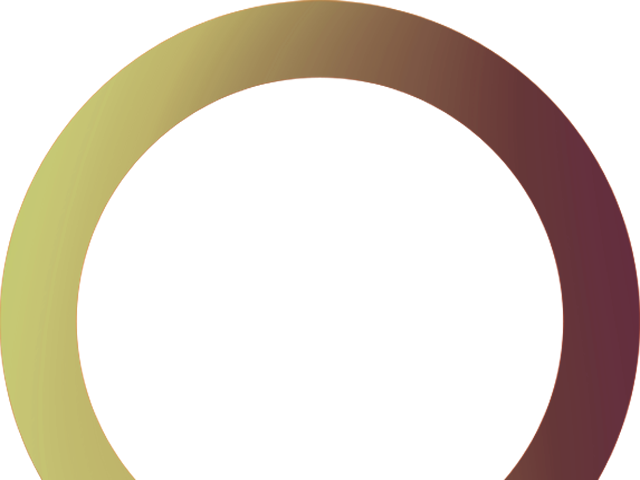
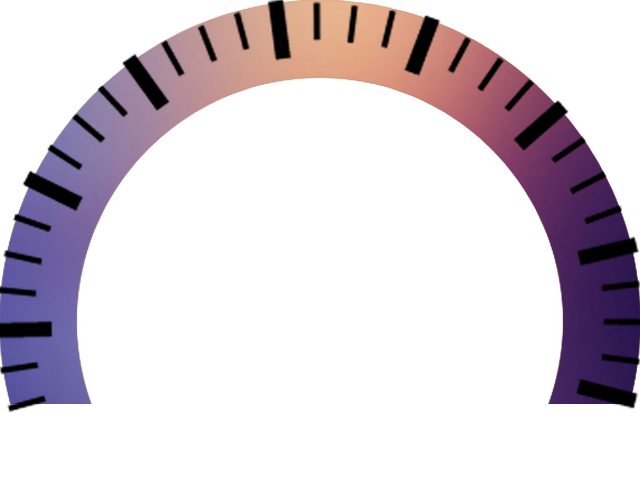
done let's say

diff --git a/custom_kivi.py b/custom_kivi.py
@@ -2,19 +2,17 @@ from kivy.uix.widget import Widget
 from kivy.uix.scatter import Scatter
 from kivy.uix.image import Image
 from kivy.uix.label import Label
-from kivy.properties import BoundedNumericProperty, BoundedStringProperty
+from kivy.properties import BoundedNumericProperty
 
 class Gauge(Widget):
-    value = BoundedNumericProperty(0, min=0, max=100, errorvalue=0)
-    file_gauge = BoundedStringProperty("")
+    value = BoundedNumericProperty(0, min=-20, max=120, errorvalue=0)
 
     def __init__(self, **kwargs):
         super(Gauge, self).__init__(**kwargs)
-        self._gauge = Scatter(
+        self._gauge = Image(
             size = (320, 320),
-            do_rotation = False,
-            do_scale = False,
-            do_translation = False
+            pos_hint={'x': 0.1, 'y': .3},
+            source = './svetlost_merilec.png',
         )
         self._needle = Scatter(
             size = (320, 320),
@@ -22,10 +20,6 @@ class Gauge(Widget):
             do_scale = False,
             do_translation = False
         )
-        self._gauge.add_widget(Image(
-            source = self.file_gauge,
-            size = (320, 320)
-        ))
         self._needle.add_widget(Image(
             source = "./needle.png",
             size = (320, 320)
@@ -35,7 +29,6 @@ class Gauge(Widget):
         self.bind(pos=self._update)
         self.bind(size=self._update)
         self.bind(value=self._turn)
-        #self._gauge.bind(source=self.file_gauge)
 
     def _update(self, *args):
         self._gauge.pos = self.pos

diff --git a/interface.py b/interface.py
@@ -25,7 +25,7 @@ class Controller(FloatLayout):
         except:
             print("error occured")
 
-        Timer(2, self.updateGauges).start()
+        Timer(1, self.updateGauges).start()
 
     def btn_click(self, btn, slider): slider.value = float(100) if "ON" not in btn.text.upper() else float(0)
 
